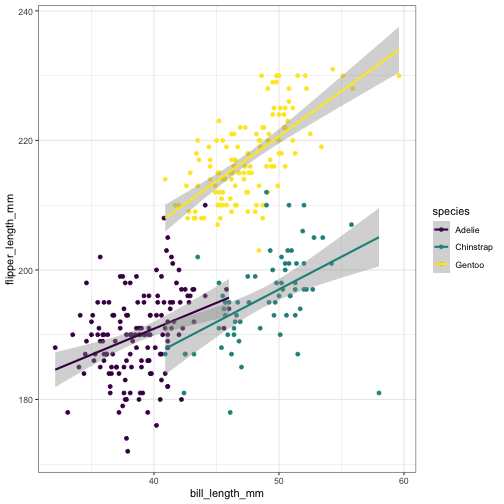
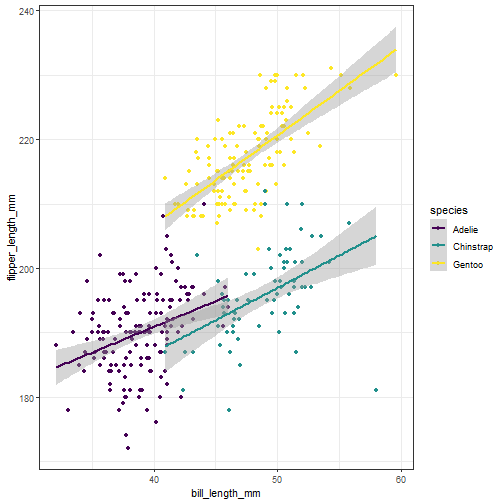
Peaches Peaches Peaches Peaches Peaches

diff --git a/Xaringan Project/Scripts/Xaringan_Pres.html b/Xaringan Project/Scripts/Xaringan_Pres.html
@@ -73,12 +73,14 @@ An understanding of **remark.js** is a good place to start!!
 
 ```r
 # THIS IS WHAT A YAML AND INTRO SLIDE LOOK LIKE IN XARINGAN
+title: "Penguin Presentation"
+subtitle: "⚔&lt;br/&gt;"
+author: "Your name"
+date: "`r Sys.Date()`"
 output:
   xaringan::moon_reader:
 ---
 # Get Started
-
-Hi !!!!!!
 ```
 ]
 ---
@@ -127,6 +129,10 @@ Now delete everything that isn't the YAML text the bottom of the YAML text shoul
 
 ```r
 # THIS IS WHAT A YAML AND INTRO SLIDE LOOK LIKE IN XARINGAN
+title: "Penguin Presentation"
+subtitle: "⚔&lt;br/&gt;"
+author: "Your name"
+date: "`r Sys.Date()`"
 output:
   xaringan::moon_reader:
 ---
@@ -140,6 +146,9 @@ Now we have the base of Xaringan Presentation!!!!
 # How do we separate slides in R Markdown?
 
 - Using three dashes (---) directly in our R markdown document we can separate slides
+
+--
+
 - These three dashes should be on their own line after the last text or code we want to put in that slide
 - Example:
 
@@ -161,7 +170,11 @@ Now we have the base of Xaringan Presentation!!!!
 
 - Adding a R code chunk to the presentation is the same as in a RMarkdown document.
 
+--
+
   - Using **Ctrl+Alt+I** _(for both windows and mac)_ still works 
+  
+--
   
   - Example:
 .pull-center[
@@ -178,7 +191,11 @@ library(palmerpenguins)
 # Higlighting Code
 - You can highlight code by using '{{}}' or '#&lt;&lt;':
 
+--
+
 - I tend to like using the "#&lt;&lt;" after my code to highlight it
+
+--
 
   - Example:
   
@@ -189,14 +206,22 @@ library(palmerpenguins)
 ```
 
 
+--
 - _You can also use a leading asterisk but it is harder to use compared to the brackets_
 ---
 # Adding Images to a Xaringan Slide
 
 - Adding images to a xaringan slide is a relatively easy process
 
+--
+
 - It is the same as adding images to a R Markdown document with a few extra steps
+
+--
+
 &gt; You can input the position of these images using a content class (ex: .center)
+
+--
 
 
 ```r
@@ -215,25 +240,31 @@ library(palmerpenguins)
 
 - Plots are fairly easy to add.
 
+--
+
 - Use an R Code Chunk and plot like you normally would.
+
+--
 
 .pull-left[
 
 ```r
 *#.pull-left[
-Clean_Chem_Data %&gt;%
+Clean_Chem_Data %&gt;%     
   ggplot(aes(x = NN,
              y = Phosphate,
-             color = Zone))+
-  geom_point(size = 2.5)+
-  geom_smooth(method = lm)+
-  theme_bw()+
-  scale_color_viridis_d()+
-* facet_wrap(~Zone)#]
+             color = Zone))+  # Bases the colors off of the Zone they were in
+  geom_point(size = 2.5)+  # makes a basic point plot and changes the size of the points
+  geom_smooth(method = lm)+ # Adds lines to the plot
+  theme_bw()+   # Uses a black and white theme
+  scale_color_viridis_d()+  # Color blind friendly color palette
+  facet_wrap(~Zone)#]       #&lt;&lt;  # Facets the plot based on Zone
 # Just a basic plot to illustrate how adding a plot to the slides works
 # Only shows the code and not the plot itself
 ```
 ]
+
+
 
 
 
@@ -248,6 +279,8 @@ Clean_Chem_Data %&gt;%
 
 - To make the code chunk and plot separate, you need to use:
 
+--
+
   - Two separate R code chunks
   
       - One contains the code for the plot but add **eval = FALSE** to the {r} section to keep the plot from showing.
@@ -255,8 +288,12 @@ Clean_Chem_Data %&gt;%
       - The other is a R code chunk that uses the name given to the plot code chunk but instead adds _-out_ to the end.
     
           - Add **ref.label="plot name"** to show the plot.
+
+--
       
 - You can then use **pull-left[]**, **pull-right[]**, and **pull-center[]** around the code chunks to move them on the slide.
+
+--
 
   - _When using these functions makes sure to put a "." in front of them_
 ---
@@ -265,7 +302,11 @@ Clean_Chem_Data %&gt;%
 
 - You are able to add a kable table to the presentation
 
+--
+
   - _Make sure it is in HTML format or it will not work_
+  
+--
   
   - Example:
   
@@ -339,6 +380,8 @@ knitr::kable(head(Chem_Data[, 1:5]), format = 'html')
 
 - You can enable _autoplay_ by adding to the **nature** section of the YAML at the beginning of the presentation.
 
+--
+
 
 
 ```r
@@ -349,7 +392,11 @@ output:
 # This makes iot so the slides change automatically at a specific time
 ```
 
+--
+
 - To make the presentation loop after it ends, add the sub-option called _loop_ to **TRUE**
+
+--
 
 
 ```r
@@ -365,8 +412,9 @@ output:
 ---
 # Slide Layout
 
-- Using something called **content classes** we can assign classes to elements that  
-can alter the display of our slides!!
+- Using something called **content classes** we can assign classes to elements that can alter the display of our slides!!
+
+--
 
 - Examples include:
 
@@ -392,16 +440,28 @@ can alter the display of our slides!!
 
 ---
 # Macros
+
 - Change the size of pictures
   - use code: `&lt;img src="image.jpg" style="width: 50%" /&gt;`
+
+--
  
 &lt;img src= "https://pbs.twimg.com/profile_images/743156951572414472/rzyTdiiR_400x400.jpg" + url +  style="width: 50%" /&gt;
 
 ---
 # Presenter Notes
+
 - Presenter can create notes within the script that won't be shown in slides!
+
+--
+
 - To create hidden slides, all you need is to type "???" after the text you want to be shown and before the notes you want to create.
+
+--
+
 - To view these notes just click [p] in the presenter view, you will have to check settings to not mirror displays
+
+--
 
 For Example:
 
@@ -416,6 +476,9 @@ you cant see me :-:
 # Yolo - TRUE
 
 - You must be wondering why there is a random picture of some guy with a mustache, this is a YAML option that comes standard in the xaringan package 
+
+--
+
 - This option will randomly insert a picture of Karl Broman into your slides 
 
 
@@ -483,12 +546,14 @@ output:
 
 - It's your turn to create your **first Xaringan Presentation!**
 
-- Create a header called "Load Libraries" in the file we had you create at the beginning of the presentation.
-
 ---
 # Create a title page
+
 - Let's make a title page
-- Type in the following script 
+
+--
+
+- Type in the following script: 
 
 ```r
 ---
@@ -497,16 +562,20 @@ subtitle: "⚔&lt;br/&gt;"
 author: "Your name"
 date: "`r Sys.Date()`"
 output:
-  xaringan::moon_reader:
+  xaringan::moon_reader:   # This is the basic Xaringan YAML that comes standard with the package
     yolo: true
     css: [default, metropolis, metropolis-fonts]
-    lib_dir: libs
-    nature:
+    # Changes the theme of Xaringan through a CSS theme.
+    lib_dir: libs  # This creates a CSS folder that includes the themes we want for the directory
+    nature: 
       highlightStyle: github
       highlightLines: true
-      countIncrementalSlides: false
+      # This changes the style of highlights in our code chunks
+      countIncrementalSlides: false # Doesn't count incremental slides as their own slides
 ---    
 ```
+---
+background-image: url(https://github.com/yihui/xaringan/releases/download/v0.0.2/karl-moustache.jpg)
 ---
 # Required Libraries
 
@@ -527,19 +596,34 @@ library(palmerpenguins)
 
 
 ```r
-ggplot(data = penguins, aes(x = bill_length_mm,
+ggplot(data = penguins, aes(x = bill_length_mm,    # The values that I want to plot
                             y = flipper_length_mm,
-                            color = species))+
-  geom_point()+
-  theme_bw()+
-  geom_smooth(method = "lm")+
-  scale_color_viridis_d()
+                            color = species))+ # Will base color off of species
+  geom_point()+   # Makes a basic point plot
+  theme_bw()+    # Uses the black and white theme
+  geom_smooth(method = "lm")+  # Adds lines to the plot
+  scale_color_viridis_d()  # Color-blind friendly palette
 ```
 
 ![](Xaringan_Pres_files/figure-html/penguinplot-1.png)&lt;!-- --&gt;
 
----
-background-image: url(https://github.com/yihui/xaringan/releases/download/v0.0.2/karl-moustache.jpg)
+
+```r
+ggsave(here("Xaringan Project", "Output", "Interactive_Plot.png"))
+```
+
+```
+## Warning: Removed 2 rows containing non-finite values (`stat_smooth()`).
+```
+
+```
+## Warning: Removed 2 rows containing missing values (`geom_point()`).
+```
+
+```r
+# Saves the plot
+```
+
 ---
 # Let's clean it up a bit
 
@@ -550,7 +634,7 @@ background-image: url(https://github.com/yihui/xaringan/releases/download/v0.0.2
 - Use the content class below around your code chunk to pull it to the left. 
 
 ```r
-.pull-left[code chunk]
+.pull-left[code chunk]   # Pulls code chunk to the left
 ```
 
 --
@@ -564,7 +648,7 @@ background-image: url(https://github.com/yihui/xaringan/releases/download/v0.0.2
 
 
 ```r
-{r penguinplot-out, ref.label="penguinplot", echo=FALSE, message=FALSE, warning=FALSE}
+{r penguinplot-out, ref.label="penguinplot", echo=FALSE, message=FALSE, warning=FALSE}  # Allows you to have your plot on the page without the code being attached
 ```
 
 --
@@ -578,13 +662,13 @@ background-image: url(https://github.com/yihui/xaringan/releases/download/v0.0.2
 .pull-left[
 
 ```r
-ggplot(data = penguins, aes(x = bill_length_mm,
+ggplot(data = penguins, aes(x = bill_length_mm,    # The values that I want to plot
                             y = flipper_length_mm,
-                            color = species))+
-  geom_point()+
-  theme_bw()+
-  geom_smooth(method = "lm")+
-  scale_color_viridis_d()
+                            color = species))+ # Will base color off of species
+  geom_point()+   # Makes a basic point plot
+  theme_bw()+    # Uses the black and white theme
+  geom_smooth(method = "lm")+  # Adds lines to the plot
+  scale_color_viridis_d()  # Color blind friendly palette
 ```
 ]
 
@@ -604,13 +688,19 @@ ggplot(data = penguins, aes(x = bill_length_mm,
 
 
 ```r
-penguins %&gt;%
-  ggplot(aes(x = bill_depth_mm, y = flipper_length_mm)) +
-* facet_grid(~island) +
-  geom_point()
+penguins %&gt;%   # The data frame
+  ggplot(aes(x = bill_depth_mm,  # The values that we want plotted for x and y
+             y = flipper_length_mm)) +
+  facet_grid(~island) + #&lt;&lt;     # facets the plot according to which island
+  geom_point()  # Makes a basic point plot
 ```
 
-&lt;img src="Xaringan_Pres_files/figure-html/unnamed-chunk-21-1.png" style="display: block; margin: auto;" /&gt;
+&lt;img src="Xaringan_Pres_files/figure-html/unnamed-chunk-22-1.png" style="display: block; margin: auto;" /&gt;
+
+
+```
+## Warning: Removed 2 rows containing missing values (`geom_point()`).
+```
 
 ---
 
